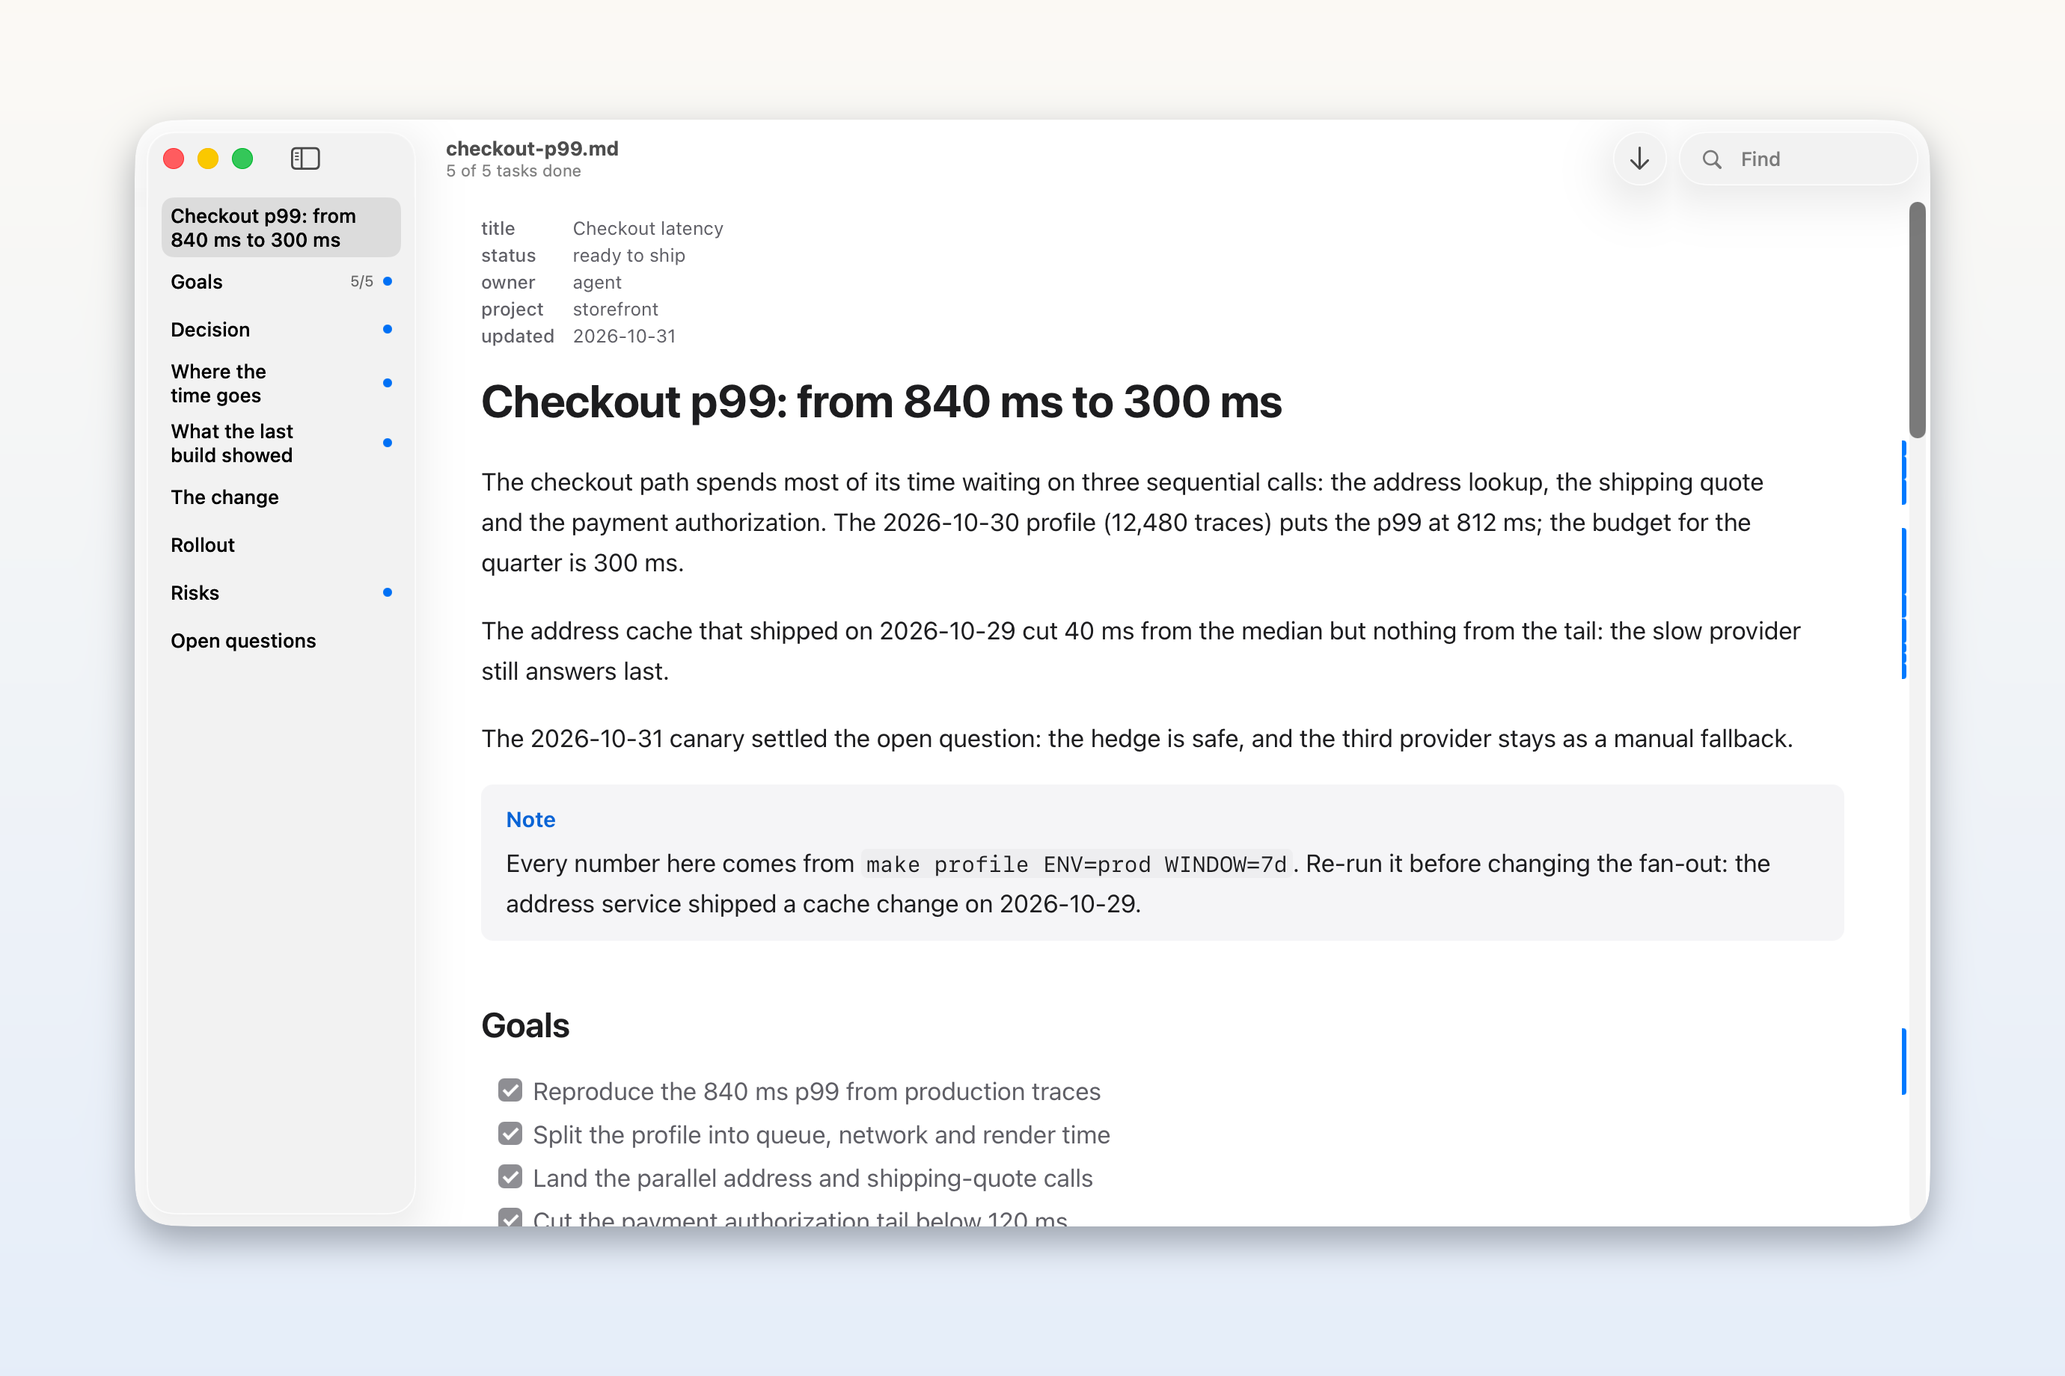
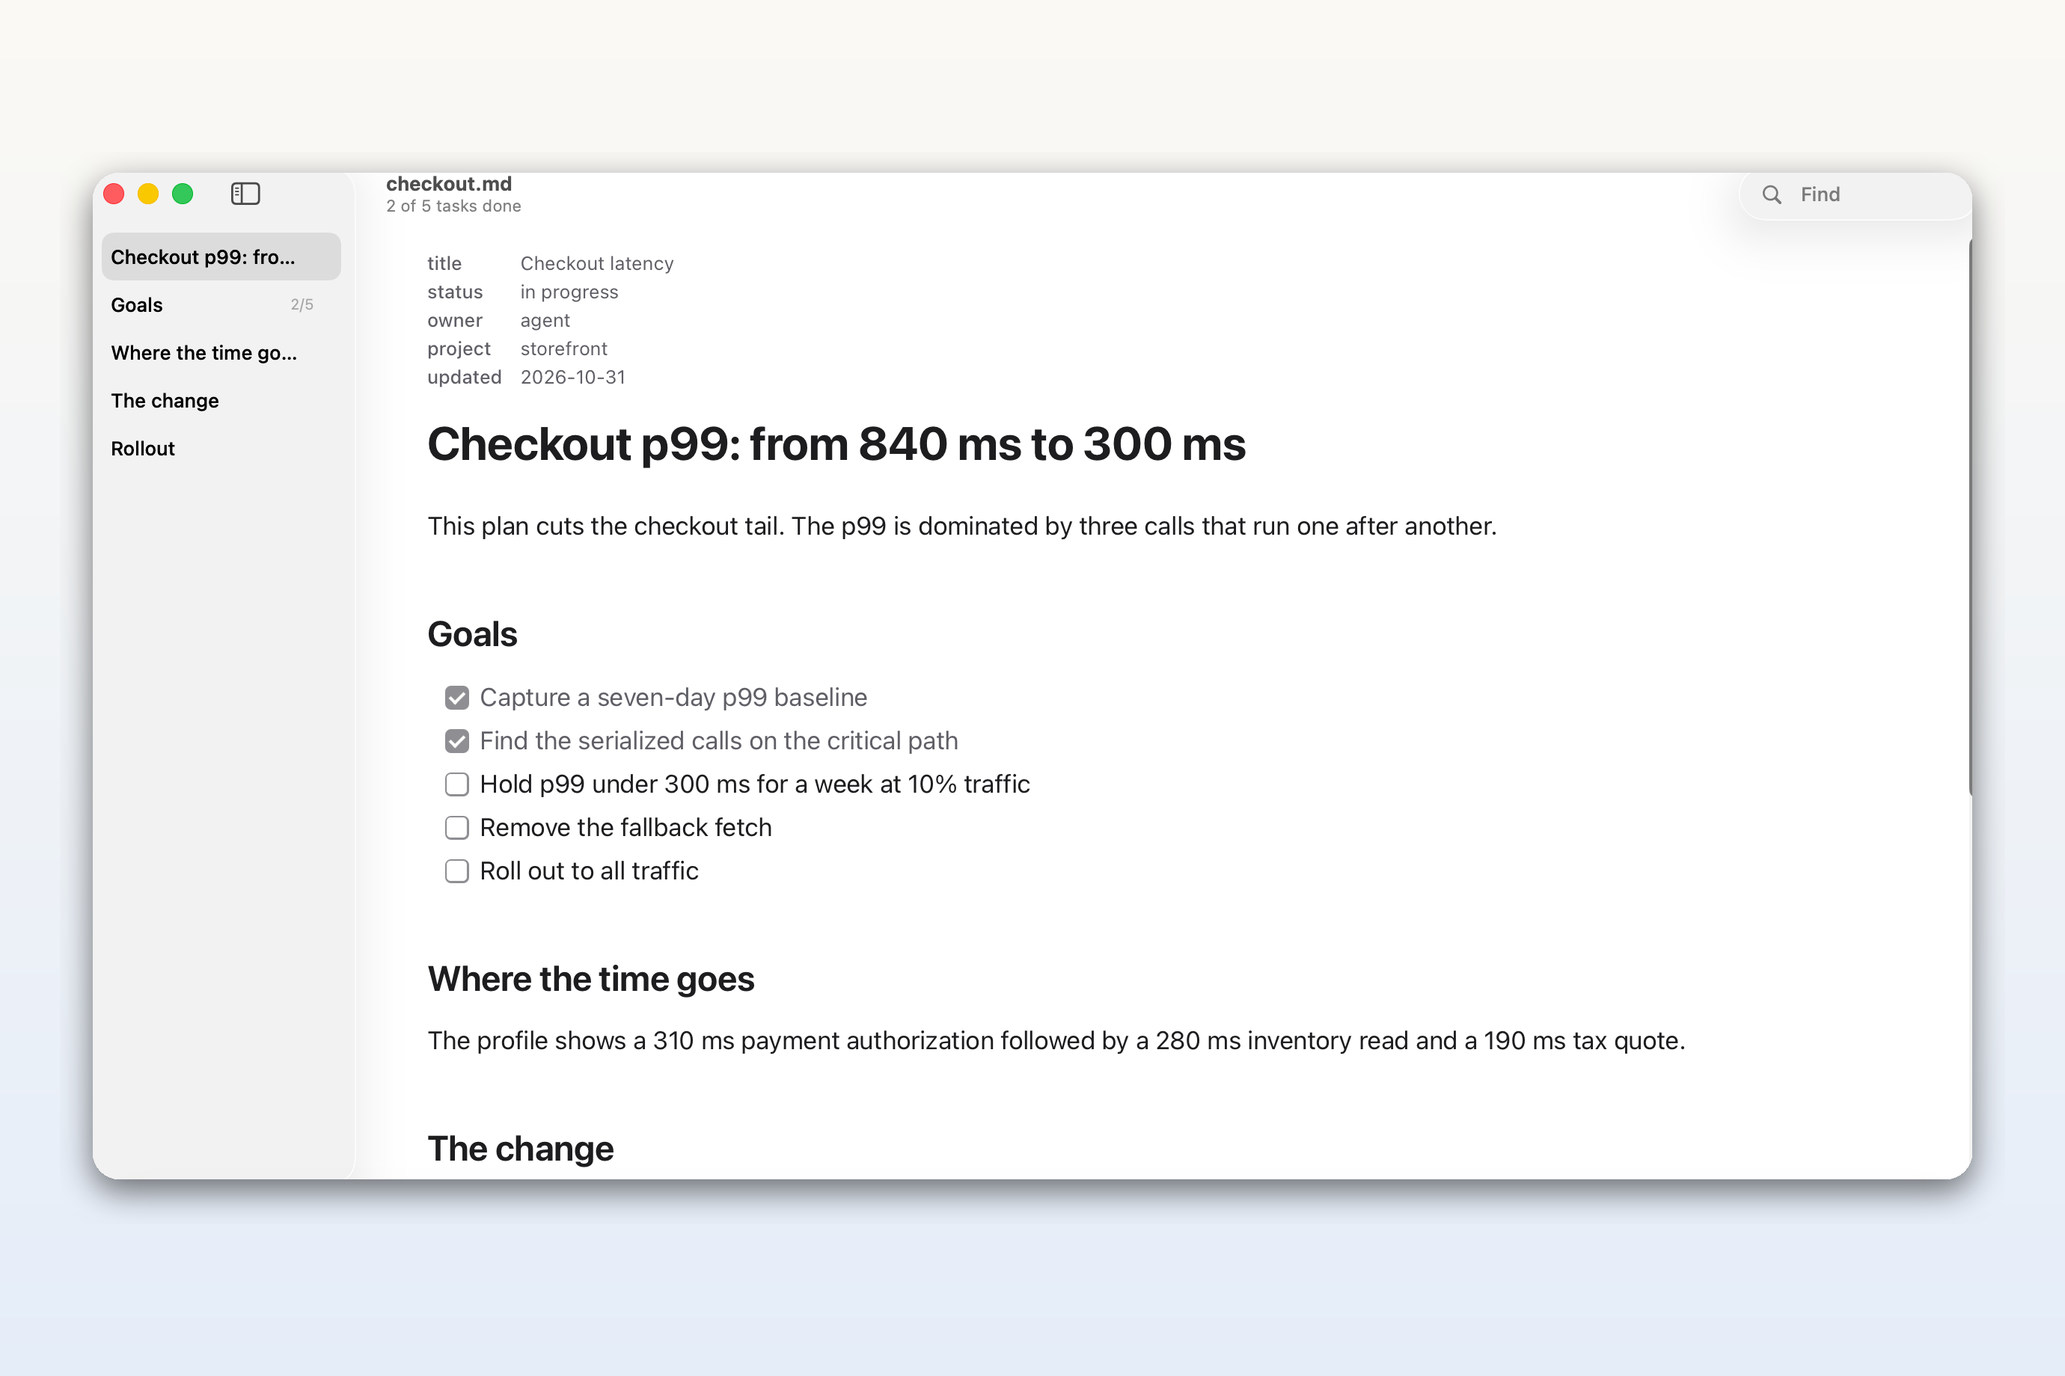
Docs: refresh the 5.2 screenshots
Replace the 5.0 gallery with 5.2 captures: the one-line outline,
Compare With menu, tabs, the Chinese reader, dark code/diagrams/math,
and the one-step welcome window. Remove the earlier-version and
unread-changes screenshots, whose features are gone, regenerate both
README heroes, and update the gallery copy in English and Chinese.

Amp-Thread-ID: https://ampcode.com/threads/T-01a1a8fe-7be5-76b3-81f9-d9bfcae364e7

Changed region(s): [[0.0312, 0.0929, 0.9659, 0.9293], [0.8725, 0.1239, 0.9036, 0.1549]]

diff --git a/docs/screenshots.md b/docs/screenshots.md
@@ -1,57 +1,39 @@
 # Readout 5 in pictures
 
-Readout 5.0.0 is a native macOS Markdown reader for the plans, specs and reports your coding
-agents write. This gallery shows the shipping app — not mockups — on macOS 26.3.1, captured at
-2× Retina resolution. [Download Readout 5.0.0](https://github.com/hxddh/readout/releases/tag/v5.0.0).
+Readout 5.2 is a native macOS Markdown reader for the plans, specs and reports your coding
+agents write. This gallery shows the app — not mockups — on macOS 26.3.1, captured at 2× Retina
+resolution. [Download Readout 5.2.0](https://github.com/hxddh/readout/releases/tag/v5.2.0).
 
 ## A plan that is still being written
 
-![A plan open in Readout with the outline on the left, task progress in the title, and unread changes marked in the right margin](screenshots/01-live-reading-en.png)
+![A plan open in Readout with the outline on the left and task progress in the title](screenshots/01-live-reading-en.png)
 
 Readout follows the file as an agent rewrites it. The paragraph you are reading stays in place;
-if you are at the end, the view follows the agent like a terminal. The outline lists headings
-and how many tasks in each section are done, the subtitle carries the overall count, and the
-thin blue bars in the right margin are changes you have not read yet.
+if you are at the end, the view follows the agent like a terminal. The outline lists headings and
+how many tasks in each section are done, on one line each (hover a heading for its full text), and
+the subtitle carries the overall count.
 
 ## See the words that changed
 
-![An edited frontmatter block showing "in progress" struck through and "ready to ship" added, under a “Marked what changed since” notice](screenshots/02-what-changed-en.png)
+![An edited frontmatter block showing "in progress" struck through and "ready to ship" added, under a “Changes since you last read” diff](screenshots/02-what-changed-en.png)
 
 Changes are marked block by block. On an edited block, Readout shows exactly which words changed
 since you last read it — here the plan's status moved from *in progress* to *ready to ship*.
 Press <kbd>D</kbd> to show or hide the comparison, <kbd>N</kbd> to go to the next change, and
-<kbd>⌘K</kbd> to mark everything read (<kbd>⌘Z</kbd> brings the marks back). The history notice
-above the document says which version you are comparing against.
+<kbd>⌘K</kbd> to mark everything read (<kbd>⌘Z</kbd> brings the marks back).
 
 ## Compare with any earlier version
 
-![The View menu's Compare with Earlier Version submenu listing two earlier versions with their times and block differences](screenshots/03-history-menu-en.png)
+![The View menu's Compare With submenu listing Last Commit and a version Readout saw, over a plan](screenshots/03-compare-with-en.png)
 
-Readout 5 keeps each version of a document it sees, for 30 days. **View ▸ Compare with Earlier
-Version** lists them, newest first, each with when it was seen and how much differs now
-(`+6 −3 blocks`, `+13 −6 blocks`). Choose one to mark everything that changed since that version;
+Readout keeps the last 20 versions of a document it sees. **View ▸ Compare With** lists **Last
+Commit** first for a file in a git repository, then the versions Readout saw, newest first, each
+named by when it saw them. Choose one to mark everything that changed since that version;
 <kbd>⌘Z</kbd> returns to what you had read.
-
-## Open an earlier version
-
-![An earlier version of the plan open read-only in its own window, with the date in the title and a change marked in the margin](screenshots/04-earlier-version-en.png)
-
-**View ▸ Open Earlier Version** opens a version read-only in a window of its own. The title says
-when Readout saw it, and the page is marked against the version before it, so you can see what
-changed in that version without touching the file on disk.
-
-## Everything waiting, in one place
-
-![The Unread Changes menu listing a changed report, a plan with 11 unread changes, and a notes file not looked at yet](screenshots/05-unread-changes-en.png)
-
-**View ▸ Unread Changes** gathers every document waiting for you, newest first: documents open
-with unread changes (`11 unread`), documents opened in the background that you have not looked at
-yet, and files in your agent folders that changed since you last read them. Choosing one takes you
-to its first change.
 
 ## Tabs that tell you where to look
 
-![Three document tabs, each with a blue unread dot, above the plan](screenshots/06-tabs-en.png)
+![Three document tabs, two with a blue unread dot, above a plan](screenshots/04-tabs-en.png)
 
 Open documents share one window as tabs, and a blue dot marks the tabs that have something new —
 unread changes, or a file opened behind you that you have not looked at. <kbd>N</kbd> walks the
@@ -59,7 +41,7 @@ changes in the current document and then moves on to the next waiting document.
 
 ## Chinese and English, set properly
 
-![A Chinese plan in the Chinese interface, with mixed Chinese and English text, a note and a task list](screenshots/07-chinese-reader-zh.png)
+![A Chinese plan in the Chinese interface, with mixed Chinese and English text, a note and a task list](screenshots/05-chinese-reader-zh.png)
 
 The typography is tuned for mixed Chinese and English: CJK punctuation, line breaking and a
 column that follows the window. The interface is localized too — this is Readout with its
@@ -67,28 +49,28 @@ Chinese menus, sidebar and task count.
 
 ## Code, diagrams and math in the dark
 
-![A dark-mode design note showing a Swift code block, a Mermaid flowchart and a KaTeX formula](screenshots/08-dark-diagram-en.png)
+![A dark-mode design note showing a Swift code block, a Mermaid flowchart and a KaTeX formula](screenshots/06-dark-diagram-en.png)
 
 GitHub-flavoured Markdown is rendered properly: syntax highlighting (Shiki), Mermaid diagrams and
 KaTeX math, in light or dark. Readout follows the system appearance; the same document keeps its
 diagram colours and code highlighting when the theme changes.
 
-## Set up once
+## Nothing to set up but your folders
 
-![The Readout welcome window with agent folders checked and the command-line step still to do](screenshots/09-welcome-en.png)
+![The Readout welcome window with one agent folder watched and no command-line step](screenshots/07-welcome-en.png)
 
-The welcome window sets Readout up in one place: add the folders your agents write in and install
-the `readout` command, each step checked once done. Claude Code's `~/.claude/plans` is watched by
-default. New Markdown files in those folders open in the background, without taking focus from
-your terminal.
+The welcome window asks only where your agents write: add the folders and it is done. Claude Code's
+`~/.claude/plans` is watched by default. New Markdown files in those folders open in the background,
+without taking focus from your terminal. The `readout` command is optional; the README has the
+one-line link for Terminal.
 
-## Also in 5.0
+## Also in Readout 5
 
-- Files open faster when Readout is already running: the spare page has its fonts ready before a
+- Opening a document while Readout runs is fast: a spare page has its fonts ready before the
   document arrives.
-- Code blocks longer than 3,000 lines fold after the first 3,000, with a button for the rest;
-  Copy, Find and printing still use every line.
+- Code blocks past 3,000 lines show their first 3,000 lines, with a button for the rest; Copy,
+  Find and Print still use every line.
 - Requires macOS 26. One universal app for Apple silicon and Intel Macs.
 
-[Download Readout 5.0.0](https://github.com/hxddh/readout/releases/tag/v5.0.0) ·
+[Download Readout 5.2.0](https://github.com/hxddh/readout/releases/tag/v5.2.0) ·
 [Source](https://github.com/hxddh/readout)

diff --git a/docs/screenshots.zh-CN.md b/docs/screenshots.zh-CN.md
@@ -1,66 +1,54 @@
 # Readout 5 图赏
 
-Readout 5.0.0 是给 Agent 写下的计划、规格和报告用的原生 macOS Markdown 阅读器。下面的图片全部来自正式发布的 App（不是效果图），在 macOS 26.3.1 上以 2× Retina 分辨率截取。[下载 Readout 5.0.0](https://github.com/hxddh/readout/releases/tag/v5.0.0)。
+Readout 5.2 是给 Agent 写下的计划、规格和报告用的原生 macOS Markdown 阅读器。下面的图片全部来自 App（不是效果图），在 macOS 26.3.1 上以 2× Retina 分辨率截取。[下载 Readout 5.2.0](https://github.com/hxddh/readout/releases/tag/v5.2.0)。
 
 ## 还在写的计划，也能安心读
 
-![Readout 中打开的计划：左侧是标题目录，标题下方是任务进度，右侧页边是未读改动](screenshots/01-live-reading-en.png)
+![Readout 中打开的计划：左侧是大纲，标题下方是任务进度](screenshots/01-live-reading-en.png)
 
-Agent 改写文件时，Readout 会跟着更新。你正在读的段落停在原处；如果你已经在文末，视图会像终端一样跟着 Agent 往下走。左侧目录列出各级标题和每一节完成的任务数，窗口副标题显示总进度，右侧页边的细蓝条是你还没读过的改动。
+Agent 改写文件时，Readout 会跟着更新。你正在读的段落停在原处；如果你已经在文末，视图会像终端一样跟着 Agent 往下走。左侧目录列出各级标题和每一节完成的任务数，每个标题一行（悬停可看全文），窗口副标题显示总进度。
 
 ## 看清改了哪几个字
 
-![被修改的 front matter：in progress 被划掉，改为 ready to ship，上方显示“已标出自某时以来的改动”](screenshots/02-what-changed-en.png)
+![被修改的 front matter：in progress 被划掉，改为 ready to ship，上方显示“Changes since you last read”](screenshots/02-what-changed-en.png)
 
-改动按块标记。对编辑过的块，Readout 会显示自上次阅读以来具体改了哪些词——这里计划状态从 *in progress* 变成了 *ready to ship*。按 <kbd>D</kbd> 显示或隐藏逐词对比，按 <kbd>N</kbd> 跳到下一处改动，按 <kbd>⌘K</kbd> 全部标为已读（<kbd>⌘Z</kbd> 可以恢复标记）。文档上方的提示会说明正在和哪个版本比较。
+改动按块标记。对编辑过的块，Readout 会显示自上次阅读以来具体改了哪些词——这里计划状态从 *in progress* 变成了 *ready to ship*。按 <kbd>D</kbd> 显示或隐藏逐词对比，按 <kbd>N</kbd> 跳到下一处改动，按 <kbd>⌘K</kbd> 全部标为已读（<kbd>⌘Z</kbd> 可以恢复标记）。
 
 ## 和任意历史版本对照
 
-![“显示”菜单中的“与较早版本比较”子菜单，列出两个较早版本及各自的时间和块差异](screenshots/03-history-menu-en.png)
+![“显示”菜单中的“比较”子菜单，列出“上次提交”和 Readout 见过的一个版本](screenshots/03-compare-with-en.png)
 
-Readout 5 会保留它见过的每个版本文档，保留 30 天。**显示 ▸ 与较早版本比较** 会按从新到旧列出这些版本，每个都带上看到它的时间和当前差异（`+6 −3 blocks`、`+13 −6 blocks`）。选中一个版本，就能把自那以后的所有改动重新标出来；按 <kbd>⌘Z</kbd> 回到之前读到的状态。
-
-## 只读打开历史版本
-
-![较早版本的计划在独立窗口中只读打开，标题带有日期，页边标出了改动](screenshots/04-earlier-version-en.png)
-
-**显示 ▸ 打开较早版本** 会在独立窗口中只读打开一个历史版本。标题里写着 Readout 看到它的时间，页面则相对于再上一个版本标出改动，所以你能看清那个版本里改了什么，而不会动到磁盘上的文件。
-
-## 所有待读文档，归到一处
-
-![“未读改动”菜单：一份阅读后有改动的报告、一份有 11 处未读的计划，以及一份尚未查看的笔记](screenshots/05-unread-changes-en.png)
-
-**显示 ▸ 未读改动** 把所有等你看的文档集中起来，最新的在前：有未读改动的已打开文档（`11 处未读`）、在后台打开但还没看过的文档，以及 Agent 文件夹里自上次阅读后有改动的文件。选中一个，就会跳到它的第一处改动。
+Readout 会保留它见过的最近 20 个版本文档。**显示 ▸ 比较** 在 git 仓库中先列 **上次提交**，再按从新到旧列出 Readout 见过的版本，每个都带上看到它的时间。选中一个版本，就能把自那以后的所有改动重新标出来；按 <kbd>⌘Z</kbd> 回到之前读到的状态。
 
 ## 标签页上的蓝点
 
-![三个文档标签页，每个都带一个蓝色未读圆点，下面是计划正文](screenshots/06-tabs-en.png)
+![三个文档标签页，其中两个带蓝色未读圆点，下面是计划正文](screenshots/04-tabs-en.png)
 
 打开的文档以标签页共用一个窗口，蓝点表示这个标签页里有新内容——未读改动，或是在后台打开、你还没看过的文件。按 <kbd>N</kbd> 会走完当前文档的改动，再前往下一个等待处理的文档。
 
 ## 中文和英文，排得舒服
 
-![中文界面的中文计划，中英混排，包含提示、任务列表和表格](screenshots/07-chinese-reader-zh.png)
+![中文界面的中文计划，中英混排，包含提示、任务列表和表格](screenshots/05-chinese-reader-zh.png)
 
 排版针对中英混排做了调整：中文标点、换行和跟随窗口的文本栏。界面也做了本地化——这张就是中文菜单、中文侧边栏和中文任务计数的 Readout。
 
 ## 暗色里的代码、图表和公式
 
-![暗色模式下的设计笔记，包含 Swift 代码块、Mermaid 流程图和 KaTeX 公式](screenshots/08-dark-diagram-en.png)
+![暗色模式下的设计笔记，包含 Swift 代码块、Mermaid 流程图和 KaTeX 公式](screenshots/06-dark-diagram-en.png)
 
 GitHub 风格的 Markdown 会被正确渲染：代码高亮（Shiki）、Mermaid 图表和 KaTeX 公式，明暗两种主题都支持。Readout 跟随系统外观；切换主题时，同一份文档的图表配色和代码高亮也会跟着变。
 
-## 第一次打开，就把 Readout 设好
+## 只需设置 Agent 文件夹
 
-![Readout 欢迎窗口：Agent 文件夹已勾选，命令行工具还未安装](screenshots/09-welcome-en.png)
+![Readout 欢迎窗口：只显示一个已被监视的 Agent 文件夹，没有命令行安装步骤](screenshots/07-welcome-en.png)
 
-欢迎窗口把 Readout 的设置集中在一处：添加 Agent 写文件的文件夹，安装 `readout` 命令，每完成一步就打勾。Claude Code 的 `~/.claude/plans` 默认就会被监视。这些文件夹里新建的 Markdown 文件会在后台自动打开，不会把焦点从终端抢走。
+欢迎窗口只问 Agent 在哪里写文件：添加文件夹就完成了。Claude Code 的 `~/.claude/plans` 默认就会被监视。这些文件夹里新建的 Markdown 文件会在后台自动打开，不会把焦点从终端抢走。`readout` 命令是可选的；需要在终端使用它时，README 里有一行链接命令。
 
-## 5.0 的其他改进
+## Readout 5 的其他改进
 
 - Readout 已在运行时，文件打开更快：备用页面会提前准备好字体，文档一到就能显示。
 - 超过 3,000 行的代码块只显示前 3,000 行，其余部分用一个按钮展开；复制、查找和打印仍然使用全部行。
 - 需要 macOS 26。一个通用 App，同时支持 Apple silicon 和 Intel Mac。
 
-[下载 Readout 5.0.0](https://github.com/hxddh/readout/releases/tag/v5.0.0) ·
+[下载 Readout 5.2.0](https://github.com/hxddh/readout/releases/tag/v5.2.0) ·
 [源码](https://github.com/hxddh/readout)

diff --git a/README.md b/README.md
@@ -7,7 +7,7 @@
 
 ---
 
-<p align="center"><img src="docs/screenshot.png" width="720" alt="A Readout 5 window: an agent's plan with its outline in the sidebar, task progress in the subtitle, and unread changes marked in the margin"></p>
+<p align="center"><img src="docs/screenshot.png" width="720" alt="A Readout 5 window: an agent's plan with its outline in the sidebar and task progress in the subtitle"></p>
 
 <p align="center"><a href="docs/screenshots.md">More screenshots</a></p>
 
